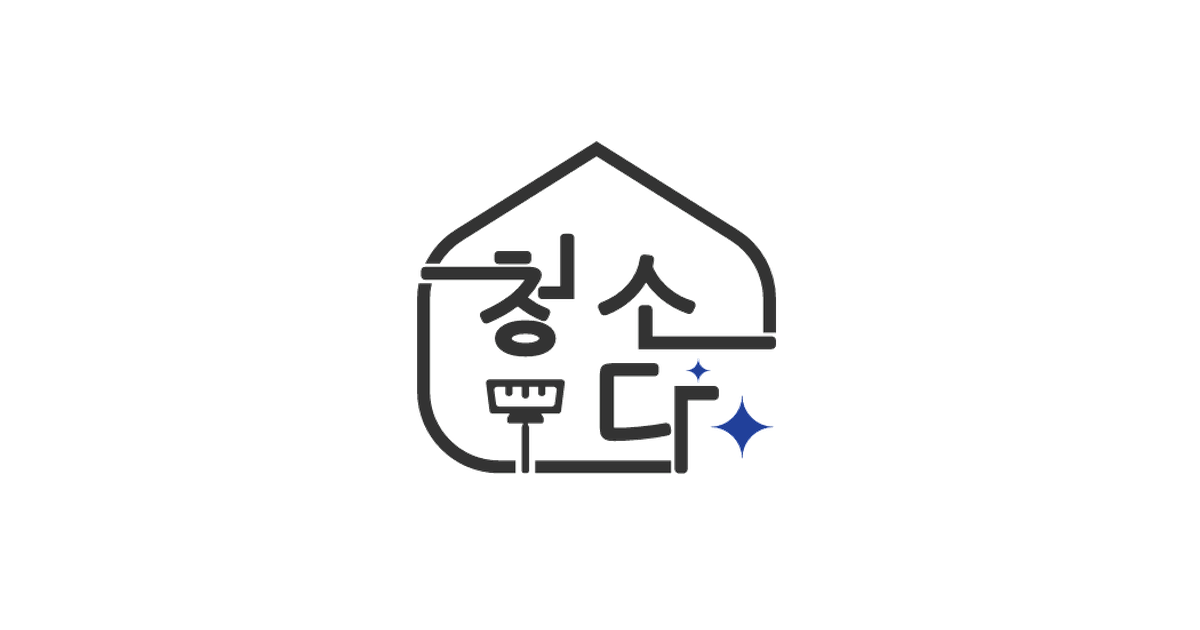
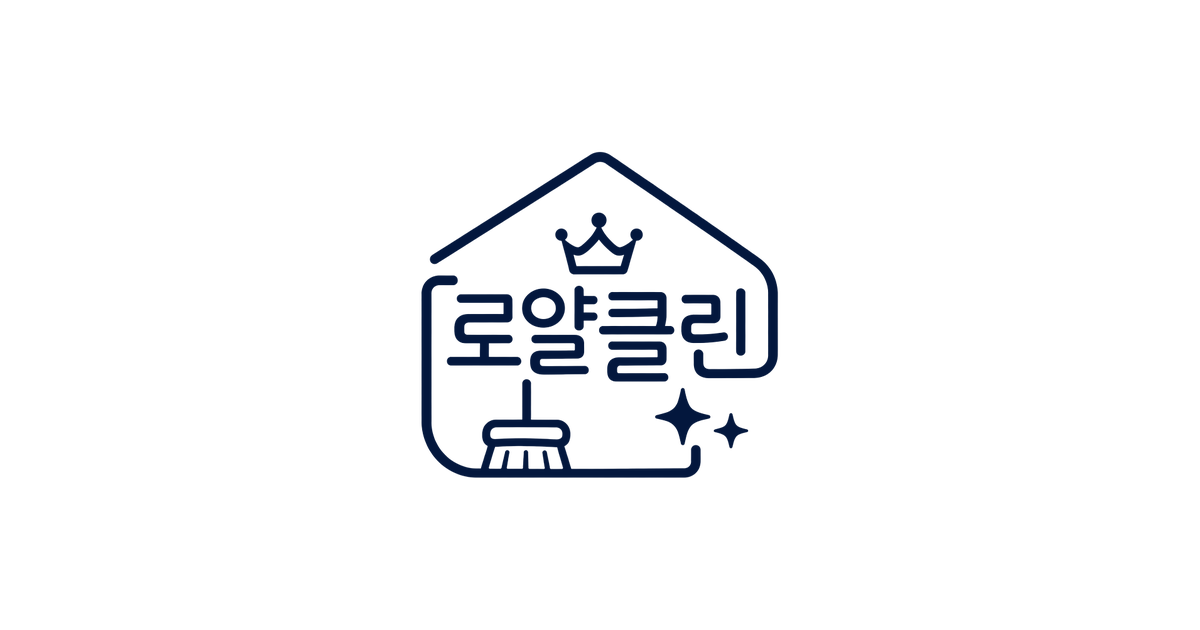
브랜드 변경: 청소다 → 로얄클린 (로고·대표번호·SNS 링크)
클라이언트 상호 변경에 맞춰 사이트 전체 브랜드 교체.
- 텍스트 35곳: 받침에 맞게 조사 수정(는→은, 가→이, 를→을), 영문명 ROYAL CLEAN
- 로고: 원본(0928.png)에서 배경 분리해 헤더/푸터용(크림·네이비), 파비콘(logo-icon.png),
  OG 썸네일 재생성 + ?v=3 캐시 버스팅. 안 쓰는 옛 로고 파일 4개 삭제
- 대표번호 1599-1807(전화 버튼 전체), 휴대폰 010-5000-0687(푸터 CONTACT)
- 카카오 채널·인스타·숨고 링크 교체 (유튜브·블로그는 새 링크 받기 전까지 유지)
- 모바일에서 숨겨지는 <br> 앞 띄어쓰기 누락 5곳 수정
- .gitignore에 원본 0928.png 추가

Changed region(s): [[0.3392, 0.2111, 0.6475, 0.7841]]

diff --git a/app/components/Promises.tsx b/app/components/Promises.tsx
@@ -18,13 +18,13 @@ export default function Promises() {
         <div className="mx-auto max-w-3xl text-center">
           <span className="section-eyebrow">Our Promise</span>
           <h2 className="heading-section mt-3 text-[2rem] text-ink sm:mt-4 sm:text-5xl lg:text-6xl break-keep">
-            <span className="text-navy-600">&apos;청소다&apos;</span>
-            <span className="text-ink">가 </span>
+            <span className="text-navy-600">&apos;로얄클린&apos;</span>
+            <span className="text-ink">이 </span>
             <span className="text-[#FF8A3D]">고객님께 약속</span>
             <span className="text-ink"> 드리겠습니다.</span>
           </h2>
           <p className="mt-4 text-sm text-ink/70 sm:mt-6 sm:text-lg break-keep">
-            30대 청년들이 운영하는 청소다는
+            30대 청년들이 운영하는 로얄클린은
             <br />
             7년간의 청소팀장 경력과 노하우로,
             <br />
@@ -36,7 +36,7 @@ export default function Promises() {
           <div className="relative overflow-hidden rounded-3xl border border-navy-100 bg-white shadow-soft sm:rounded-[32px]">
             <img
               src="/team/group-shot.png"
-              alt="청소다 직영팀 단체샷"
+              alt="로얄클린 직영팀 단체샷"
               loading="lazy"
               className="block h-auto w-full"
             />
@@ -50,7 +50,7 @@ export default function Promises() {
                 </span>
               </div>
               <p className="mt-2 text-base font-extrabold text-white drop-shadow sm:text-xl break-keep">
-                하청·알바 없이 청소다 본사에서 직접 운영하는 직영팀입니다.
+                하청·알바 없이 로얄클린 본사에서 직접 운영하는 직영팀입니다.
               </p>
             </div>
           </div>
@@ -100,10 +100,10 @@ export default function Promises() {
           {/* Free benefits panel */}
           <aside className="rounded-2xl border border-navy-100 bg-white p-6 shadow-soft sm:rounded-3xl sm:p-8">
             <div className="inline-flex items-center gap-2 rounded-full bg-[#FEE500]/15 px-3 py-1 text-[11px] font-bold text-[#9A7C00] sm:text-xs">
-              FREE · 청소다 무료 서비스
+              FREE · 로얄클린 무료 서비스
             </div>
             <h3 className="mt-4 text-xl font-extrabold text-ink sm:text-3xl break-keep">
-              청소다에 의뢰하면
+              로얄클린에 의뢰하면
               <br />
               <span className="text-navy-600">7가지 무료 혜택</span>이 따라옵니다
             </h3>

diff --git a/app/lib/data.ts b/app/lib/data.ts
@@ -1,22 +1,24 @@
 export const COMPANY = {
-  name: '청소다',
-  nameEn: 'CHEONG SO DA',
+  name: '로얄클린',
+  nameEn: 'ROYAL CLEAN',
   tagline: '종합청소업체 본사',
-  phone: '010-7444-1535',
-  phoneTel: '01074441535',
-  kakao: 'http://pf.kakao.com/_wxctWn/chat',
-  kakaoHandle: 'pf.kakao.com/_wxctWn',
+  phone: '1599-1807',
+  phoneTel: '15991807',
+  mobile: '010-5000-0687',
+  mobileTel: '01050000687',
+  kakao: 'https://pf.kakao.com/_xfEKxjX/chat',
+  kakaoHandle: 'pf.kakao.com/_xfEKxjX',
   blog: 'https://blog.naver.com/cheongsoda',
   blogHandle: 'blog.naver.com/cheongsoda',
-  instagram: 'https://www.instagram.com/cheongso_da',
-  instagramHandle: '@cheongso_da',
-  soomgo: 'https://soomgo.com/profile/users/12040020',
-  soomgoHandle: 'soomgo.com/cheongsoda',
+  instagram: 'https://www.instagram.com/royalclean.kr',
+  instagramHandle: '@royalclean.kr',
+  soomgo: 'https://soomgo.com/profile/users/18306814',
+  soomgoHandle: 'soomgo.com/profile/users/18306814',
   youtube: 'https://www.youtube.com/@cheongsoda',
   youtubeHandle: '@cheongsoda',
   serviceArea: '서울 · 경기 · 인천 · 전국 직영팀 보유',
   hours: '연중무휴 · 오전 9시 ~ 오후 9시',
-  ceo: '청소다 본사',
+  ceo: '로얄클린 본사',
   insurance: '대물 1억원 영업 배상책임 보험 가입',
   team: '하청X · 알바X · 20~40대 직영팀 50팀 운영',
 };
@@ -131,7 +133,7 @@ export const PROMISES = [
   {
     no: '01',
     title: '하청·알바 없는 직영팀',
-    desc: '20~40대 베테랑으로만 구성된 직영팀 50팀 이상이 청소다 본사에서 직접 운영합니다.',
+    desc: '20~40대 베테랑으로만 구성된 직영팀 50팀 이상이 로얄클린 본사에서 직접 운영합니다.',
   },
   {
     no: '02',
@@ -157,7 +159,7 @@ export const PROMISES = [
 
 export const REVIEWS = Array.from({ length: 10 }, (_, i) => ({
   image: `/reviews/v2-review-${String(i + 1).padStart(2, '0')}.png`,
-  alt: `청소다 실제 고객 후기 ${i + 1}`,
+  alt: `로얄클린 실제 고객 후기 ${i + 1}`,
 }));
 
 export const FAQS = [
@@ -167,7 +169,7 @@ export const FAQS = [
   },
   {
     q: '피톤치드·스팀살균은 정말 무료인가요?',
-    a: '네, 청소다에 의뢰해 주신 모든 고객님께 피톤치드 살균과 고온 스팀 살균을 추가 비용 없이 기본 서비스로 제공합니다.',
+    a: '네, 로얄클린에 의뢰해 주신 모든 고객님께 피톤치드 살균과 고온 스팀 살균을 추가 비용 없이 기본 서비스로 제공합니다.',
   },
   {
     q: '청소 후 부족한 부분은 어떻게 처리되나요?',

diff --git a/app/components/Footer.tsx b/app/components/Footer.tsx
@@ -10,7 +10,7 @@ export default function Footer() {
           <div>
             <Logo variant="white" />
             <p className="mt-5 max-w-sm text-sm leading-relaxed text-white/65 break-keep">
-              청소다는 입주·이사·거주·상가청소를 전문으로 하는 종합청소업체 본사입니다.
+              로얄클린은 입주·이사·거주·상가청소를 전문으로 하는 종합청소업체 본사입니다.
               하청·알바 없이 직영팀 50팀 이상이 운영되며, 피톤치드·스팀살균을 모든 고객께 무료
               제공합니다.
             </p>
@@ -89,7 +89,7 @@ export default function Footer() {
           />
           <FooterCol
             title="고객 지원"
-            items={['견적 신청', '진행 절차', '청소다 약속', '자주 묻는 질문', '리뷰 페이백']}
+            items={['견적 신청', '진행 절차', '로얄클린 약속', '자주 묻는 질문', '리뷰 페이백']}
           />
           <div>
             <h4 className="text-sm font-bold uppercase tracking-[0.16em] text-white/60">
@@ -98,7 +98,15 @@ export default function Footer() {
             <ul className="mt-5 space-y-3 text-sm">
               <li>
                 <span className="block text-xs text-white/50">본사 대표번호</span>
-                <span className="number-tabular">{COMPANY.phone}</span>
+                <a href={`tel:${COMPANY.phoneTel}`} className="number-tabular transition hover:text-white">
+                  {COMPANY.phone}
+                </a>
+              </li>
+              <li>
+                <span className="block text-xs text-white/50">휴대폰</span>
+                <a href={`tel:${COMPANY.mobileTel}`} className="number-tabular transition hover:text-white">
+                  {COMPANY.mobile}
+                </a>
               </li>
               <li>
                 <span className="block text-xs text-white/50">서비스 지역</span>
@@ -165,7 +173,7 @@ export default function Footer() {
         </div>
 
         <div className="mt-12 flex flex-col gap-3 border-t border-white/10 pt-6 text-xs text-white/50 sm:flex-row sm:items-center sm:justify-between">
-          <span>© 2026 청소다 (CHEONG SO DA). All rights reserved.</span>
+          <span>© 2026 로얄클린 (ROYAL CLEAN). All rights reserved.</span>
           <div className="flex gap-5">
             <a href="#" className="hover:text-white">
               개인정보처리방침

diff --git a/app/layout.tsx b/app/layout.tsx
@@ -2,7 +2,7 @@ import type { Metadata, Viewport } from 'next';
 import './globals.css';
 
 const SITE_URL = 'https://cheongsoda.com';
-const TITLE = '청소다 | 종합청소업체 1위 · 입주·이사·거주·상가청소';
+const TITLE = '로얄클린 | 종합청소업체 1위 · 입주·이사·거주·상가청소';
 const DESCRIPTION =
   '입주·이사·거주·상가청소 전문. 하청·알바 없는 전국 직영팀 50팀+ 운영, 피톤치드·스팀살균 전 고객 무료. 지금 카카오톡으로 무료 견적 받아보세요.';
 
@@ -11,7 +11,7 @@ export const metadata: Metadata = {
   title: TITLE,
   description: DESCRIPTION,
   keywords: [
-    '청소다',
+    '로얄클린',
     '종합청소업체',
     '입주청소',
     '이사청소',
@@ -36,13 +36,13 @@ export const metadata: Metadata = {
     type: 'website',
     locale: 'ko_KR',
     url: SITE_URL,
-    siteName: '청소다',
+    siteName: '로얄클린',
     images: [
       {
-        url: '/og-image.png?v=2',
+        url: '/og-image.png?v=3',
         width: 1200,
         height: 630,
-        alt: '청소다 - 종합청소업체 1위',
+        alt: '로얄클린 - 종합청소업체 1위',
       },
     ],
   },
@@ -50,11 +50,11 @@ export const metadata: Metadata = {
     card: 'summary_large_image',
     title: TITLE,
     description: DESCRIPTION,
-    images: ['/og-image.png?v=2'],
+    images: ['/og-image.png?v=3'],
   },
   icons: {
-    icon: '/logo/logo-mono-dark.png',
-    apple: '/logo/logo-mono-dark.png',
+    icon: '/logo/logo-icon.png',
+    apple: '/logo/logo-icon.png',
   },
   robots: { index: true, follow: true },
 };

diff --git a/app/components/BrandFilm.tsx b/app/components/BrandFilm.tsx
@@ -91,7 +91,7 @@ export default function BrandFilm() {
               <span className="text-[#FEE500]">새로운 시작</span>을 만듭니다
             </h2>
             <p className="mt-4 max-w-xl text-[15px] text-white/80 sm:mt-6 sm:text-lg break-keep">
-              하청·알바 없이 청소다 직영팀이 직접 현장에 나갑니다.
+              하청·알바 없이 로얄클린 직영팀이 직접 현장에 나갑니다.{' '}
               <br className="hidden sm:block" />
               입주·이사·거주청소의 실제 작업 과정을 영상으로 확인해 보세요.
             </p>
@@ -165,7 +165,7 @@ export default function BrandFilm() {
               {/* 컨트롤 */}
               <div className="pointer-events-none absolute inset-x-0 bottom-0 flex items-end justify-between gap-2 bg-gradient-to-t from-navy-950/80 to-transparent p-3 sm:p-4">
                 <span className="rounded-full bg-white/90 px-3 py-1 text-[11px] font-extrabold text-navy-700 sm:text-xs">
-                  청소다 실제 작업 영상
+                  로얄클린 실제 작업 영상
                 </span>
                 <div className="pointer-events-auto flex items-center gap-2">
                   <button

diff --git a/app/components/Stats.tsx b/app/components/Stats.tsx
@@ -6,14 +6,14 @@ export default function Stats() {
       <div className="container-px mx-auto max-w-7xl">
         <div className="grid items-center gap-10 lg:grid-cols-[1fr_1.4fr] lg:gap-12">
           <div>
-            <span className="section-eyebrow">Why 청소다</span>
+            <span className="section-eyebrow">Why 로얄클린</span>
             <h2 className="heading-section mt-3 text-[1.75rem] text-ink sm:mt-4 sm:text-4xl lg:text-5xl break-keep">
               숫자로 증명하는
               <br />
-              <span className="text-navy-600">&apos;청소다&apos;</span>의 신뢰
+              <span className="text-navy-600">&apos;로얄클린&apos;</span>의 신뢰
             </h2>
             <p className="mt-4 text-sm text-ink/70 sm:mt-5 sm:text-lg break-keep">
-              많은 고객님께서 청소다를 선택하시고, 다시 찾아주십니다. 단순히 청소만 하는
+              많은 고객님께서 로얄클린을 선택하시고, 다시 찾아주십니다. 단순히 청소만 하는
               업체가 아닌, 정직한 가격과 꼼꼼함으로 답해드립니다.
             </p>
           </div>

diff --git a/app/components/Header.tsx b/app/components/Header.tsx
@@ -9,7 +9,7 @@ import { CloseIcon, Instagram, MenuIcon, NaverBlog, Phone, Soomgo, YouTube } fro
 const NAV = [
   { id: 'services', label: '청소 서비스' },
   { id: 'process', label: '진행 절차' },
-  { id: 'promises', label: '청소다 약속' },
+  { id: 'promises', label: '로얄클린 약속' },
   { id: 'reviews', label: '고객 후기' },
   { id: 'pricing', label: '요금 안내' },
   { id: 'faq', label: 'FAQ' },
@@ -35,7 +35,7 @@ export default function Header() {
       }`}
     >
       <div className="mx-auto flex max-w-7xl items-center justify-between gap-1 px-2 py-3 sm:gap-3 sm:px-8 sm:py-3.5 lg:px-12">
-        <a href="#top" className="flex shrink-0 items-center" aria-label="청소다 홈">
+        <a href="#top" className="flex shrink-0 items-center" aria-label="로얄클린 홈">
           <Logo variant={scrolled ? 'navy' : 'white'} />
         </a>
 

diff --git a/app/components/Showcase.tsx b/app/components/Showcase.tsx
@@ -8,11 +8,11 @@ export default function Showcase() {
           <div>
             <span className="section-eyebrow">Portfolio</span>
             <h2 className="heading-section mt-3 text-[1.75rem] text-ink sm:mt-4 sm:text-4xl lg:text-5xl break-keep">
-              청소다가 작업한 <span className="text-navy-600">현장의 기록</span>
+              로얄클린이 작업한 <span className="text-navy-600">현장의 기록</span>
             </h2>
           </div>
           <p className="max-w-md text-sm text-ink/65 sm:text-base break-keep">
-            매 현장마다 사진과 영상을 남겨 고객님께 투명하게 공유합니다.
+            매 현장마다 사진과 영상을 남겨 고객님께 투명하게 공유합니다.{' '}
             <br className="hidden sm:block" />
             마감의 차이를 직접 확인해 보세요.
           </p>

diff --git a/app/components/Services.tsx b/app/components/Services.tsx
@@ -15,10 +15,10 @@ export default function Services() {
             구석구석, <span className="text-navy-600">청소 + 시공</span>까지
           </h2>
           <p className="mt-4 text-sm text-ink/70 sm:mt-6 sm:text-lg break-keep">
-            입주·이사·거주·상가청소부터 줄눈시공·탄성코팅·폐기물처리까지
+            입주·이사·거주·상가청소부터 줄눈시공·탄성코팅·폐기물처리까지{' '}
             <br className="hidden sm:block" />
             한 번에 종합청소업체{' '}
-            <span className="font-bold text-navy-700">&apos;청소다&apos;</span>
+            <span className="font-bold text-navy-700">&apos;로얄클린&apos;</span>
             에서 완벽하게 케어해드리겠습니다.
           </p>
         </div>

diff --git a/app/components/QuoteForm.tsx b/app/components/QuoteForm.tsx
@@ -74,7 +74,7 @@ export default function QuoteForm() {
               <span className="text-[#FEE500]">무료 견적</span>을 받아보세요
             </h2>
             <p className="mt-3 max-w-md text-[13px] text-white/80 sm:mt-6 sm:text-lg break-keep">
-              평수와 옵션만 알려주시면, 청소다 본사 직영팀에서 카카오톡으로 즉시 견적을
+              평수와 옵션만 알려주시면, 로얄클린 본사 직영팀에서 카카오톡으로 즉시 견적을
               안내드립니다. 전국 어디든 출장비 없이 동일한 가격으로 진행됩니다.
             </p>
 

diff --git a/app/components/QuoteIntro.tsx b/app/components/QuoteIntro.tsx
@@ -12,7 +12,7 @@ export default function QuoteIntro() {
             이런 마감을 <span className="text-navy-600">약속드립니다</span>
           </h2>
           <p className="mt-4 text-sm text-ink/70 sm:mt-6 sm:text-lg break-keep">
-            청소다 직영팀이 실제로 작업한 결과의 일부입니다.
+            로얄클린 직영팀이 실제로 작업한 결과의 일부입니다.{' '}
             <br className="hidden sm:block" />
             아래에서 30초만에 견적을 신청하시면, 같은 마감으로 진행해 드립니다.
           </p>

diff --git a/app/components/CallCTA.tsx b/app/components/CallCTA.tsx
@@ -208,7 +208,7 @@ export default function CallCTA() {
                   실제 청소 과정 영상을 공개합니다
                 </p>
                 <div className="mt-5 text-base font-black sm:text-lg break-keep">
-                  영상으로 보는 청소다
+                  영상으로 보는 로얄클린
                 </div>
               </div>
               <span className="grid h-11 w-11 shrink-0 place-items-center rounded-2xl bg-white/15 text-white backdrop-blur transition group-hover:scale-110 sm:h-12 sm:w-12">
